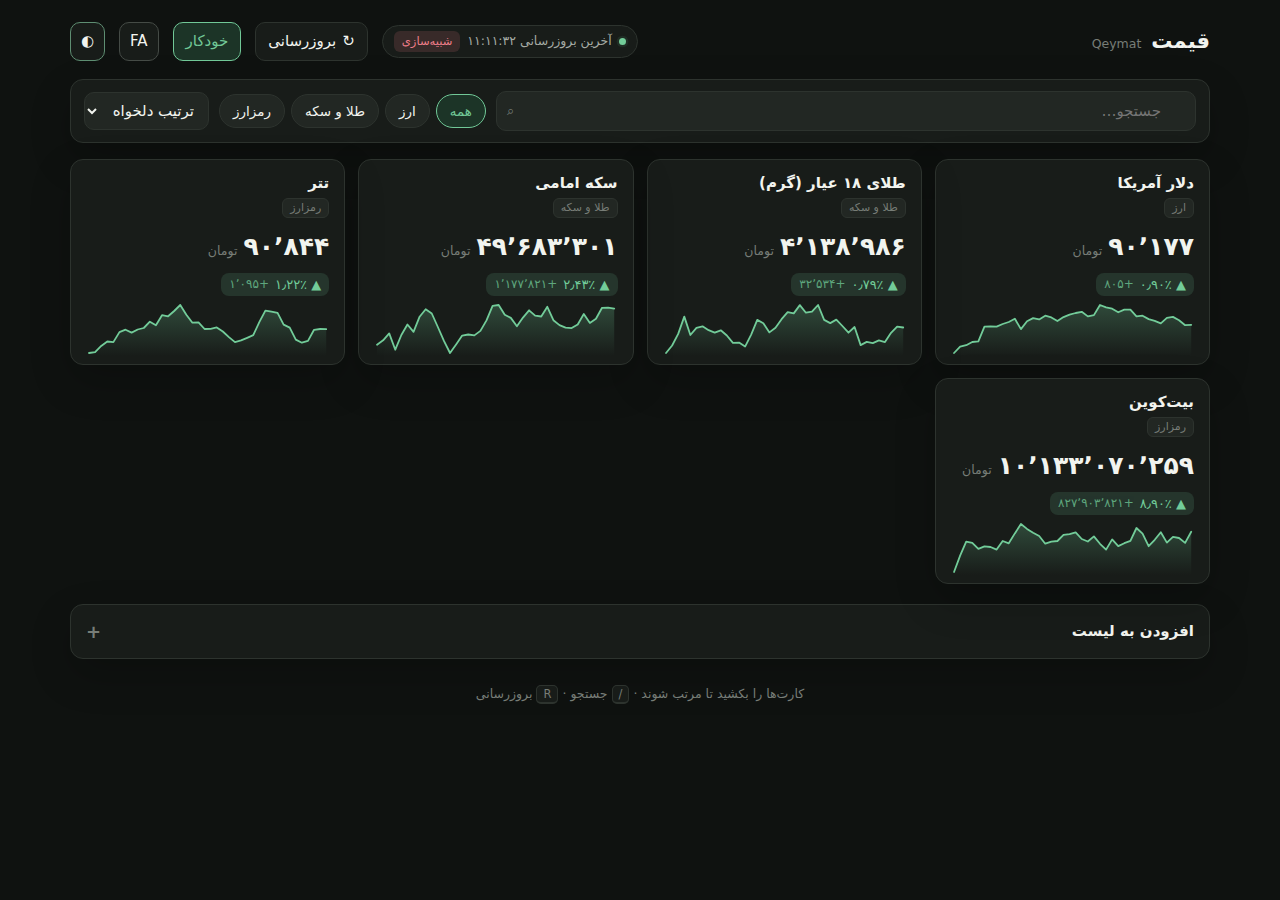
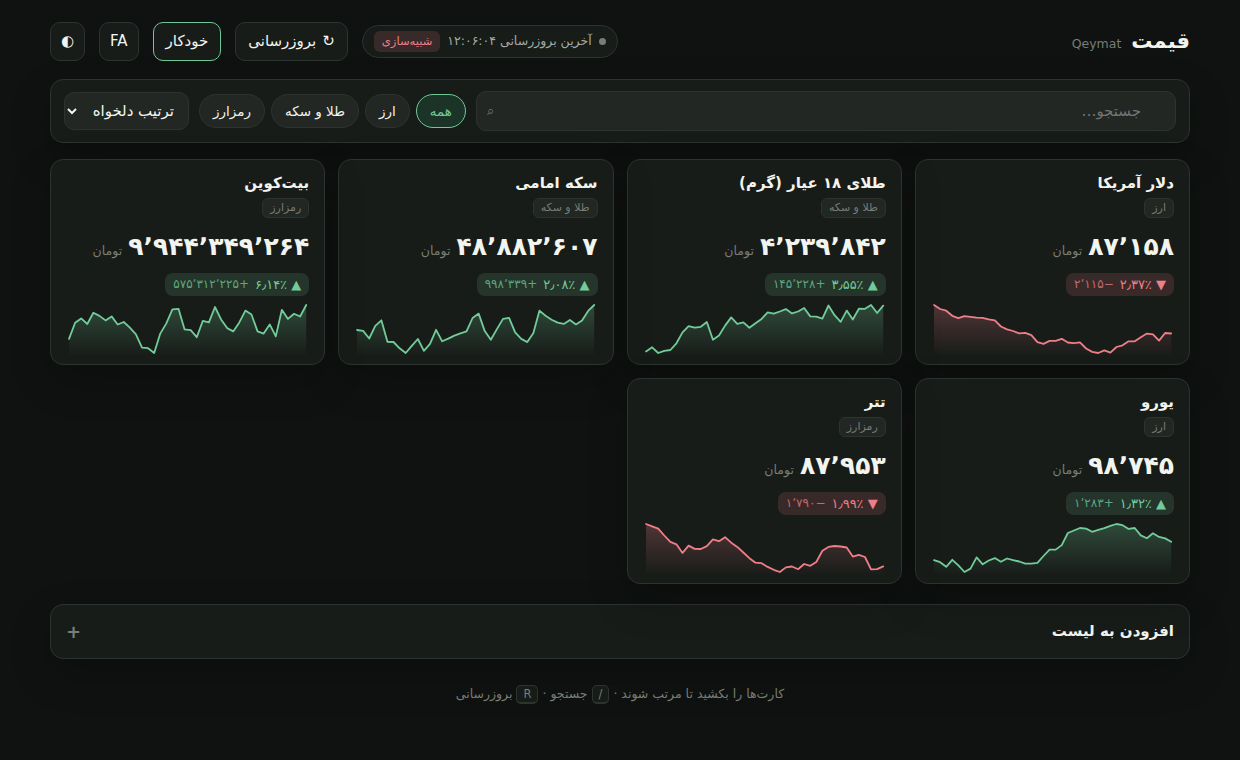
Fix ten review findings: honest live-mode data, in-place ticks, filtered reorder
A full review pass over the board surfaced three user-facing correctness
bugs, two defects that made the theme verifier unable to fail, and five
smaller gaps. All are fixed here.

Live mode no longer fabricates data. Seeding a random-walk history was
only ever the simulation's job, but it also ran at boot and on every
"add to watchlist" regardless of source — so with a real API key, adding
Bitcoin displayed an invented price under a "live" badge, indefinitely if
auto-refresh was off, and re-adding an asset overwrote its retained real
history. Now the simulation seeds as before; the live feed shows a
placeholder card and fetches immediately, a re-added asset keeps the data
it had, and before the first live response the badge reads "cached" —
which is literally what localStorage contents are — instead of claiming
anything untested. The API's estimated/derived flag, parsed and stored
but never shown, now renders as a marker on the card.

Ticks patch the DOM instead of rebuilding it. renderGrid() on every
5-second tick replaced el.grid.innerHTML, which cancelled any in-progress
drag and threw away keyboard focus. updateGrid() now updates prices,
deltas, and sparkline paths on the existing nodes, falling back to a full
render only when the visible set or order actually changed — and never
mid-drag. Verified by node identity across a tick and by focus surviving
one. The same tick also rewrote the search box's value, which can abort
[…]

diff --git a/qeymat-board/index.html b/qeymat-board/index.html
@@ -176,6 +176,7 @@
     .card .ctl button{min-width:40px;min-height:40px;display:inline-flex;align-items:center;justify-content:center}
     .card .mv{min-width:40px}
     .btn,.chip{min-height:40px}
+    select.sort,.add-btn{min-height:40px}
     .desktop-only{display:none}
   }
   @media (hover: hover){ .touch-only{display:none} }
@@ -190,6 +191,7 @@
   .delta.down{color:var(--down);background:var(--down-soft)}
   .delta.flat{color:var(--flat);background:var(--panel-2)}
   .delta .abs{opacity:.75;font-size:12px}
+  .delta .est{opacity:.8;font-size:11px;border-inline-start:1px solid currentColor;padding-inline-start:6px}
   .spark{display:block;width:100%;height:54px;margin-top:6px;overflow:visible}
   .flash{animation:flash .7s ease-out}
   @keyframes flash{from{background:var(--accent-soft)}to{background:transparent}}
@@ -319,6 +321,7 @@ const T = {
     units:{ toman:'تومان', usd:'دلار' }, pct:'٪',
     updated:'آخرین بروزرسانی', never:'هنوز بروزرسانی نشده', remove:'حذف',
     feed:{ live:'زنده', partial:'ناقص', cached:'ذخیرهشده', simulated:'شبیهسازی', error:'خطا' },
+    estimated:'تخمینی',
   },
   en:{
     brand:'Qeymat', sub:'قیمت', refresh:'Refresh', auto:'Auto',
@@ -332,6 +335,7 @@ const T = {
     units:{ toman:'Toman', usd:'USD' }, pct:'%',
     updated:'Updated', never:'not updated yet', remove:'Remove',
     feed:{ live:'live', partial:'partial', cached:'cached', simulated:'simulated', error:'error' },
+    estimated:'est.',
   }
 };
 const t = () => T[state.prefs.lang];
@@ -442,7 +446,9 @@ const liveSource = {
 
 // Which source is live is a data question, not a code edit: a key present means
 // the real API, absent means the simulation.
-let feedStatus = { mode: 'simulated', at: null };
+// Before the first live response, what is on screen is whatever localStorage
+// held — which is exactly what "cached" means. Never claim live untested.
+let feedStatus = { mode: API.key ? 'cached' : 'simulated', at: null };
 let activeSource = API.key ? liveSource : simulatedSource;
 
 async function fetchRates(ids){
@@ -503,8 +509,15 @@ function seedHistory(id){
 
 function ensureSeeded(){
   for (const id of state.watchlist){
-    if (!state.history[id] || !state.prices[id]) seedHistory(id);
-    if (state.prices[id].open == null) state.prices[id].open = state.history[id][0];
+    if (!state.history[id] || !state.prices[id]){
+      // Fabricated numbers are only ever acceptable from the simulation. In
+      // live mode a card with no data yet shows a placeholder until the
+      // first quote lands, rather than an invented price.
+      if (activeSource === simulatedSource) seedHistory(id);
+      else state.history[id] = state.history[id] || [];
+    }
+    const p = state.prices[id];
+    if (p && p.open == null) p.open = (state.history[id] || [])[0];
   }
 }
 
@@ -599,8 +612,9 @@ function visibleIds(){
 function cardHTML(id){
   const a = byId[id];
   const p = state.prices[id];
+  const has = !!p;
   const d = delta(id);
-  const dir = d.pct > 0.001 ? 'up' : d.pct < -0.001 ? 'down' : 'flat';
+  const dir = !has ? 'flat' : d.pct > 0.001 ? 'up' : d.pct < -0.001 ? 'down' : 'flat';
   const arrow = dir === 'up' ? '▲' : dir === 'down' ? '▼' : '■';
   const stroke = dir === 'up' ? 'var(--up)' : dir === 'down' ? 'var(--down)' : 'var(--flat)';
   const { line, area } = sparkPaths(state.history[id]);
@@ -621,12 +635,13 @@ function cardHTML(id){
       </div>
     </div>
     <div class="price">
-      <span class="num" data-num="${id}">${fmtPrice(p.price, a.unit)}</span>
+      <span class="num" data-num="${id}">${has ? fmtPrice(p.price, a.unit) : '—'}</span>
       <span class="unit">${t().units[a.unit]}</span>
     </div>
     <div class="delta ${dir}">
-      <span>${arrow} ${fmtPct(d.pct)}${t().pct}</span>
-      <span class="abs">${d.abs >= 0 ? '+' : '−'}${fmtPrice(Math.abs(d.abs), a.unit)}</span>
+      <span>${has ? `${arrow} ${fmtPct(d.pct)}${t().pct}` : '…'}</span>
+      <span class="abs">${has ? `${d.abs >= 0 ? '+' : '−'}${fmtPrice(Math.abs(d.abs), a.unit)}` : ''}</span>
+      <span class="est" ${has && p.estimated ? '' : 'hidden'}>${t().estimated}</span>
     </div>
     <svg class="spark" viewBox="0 0 ${SPARK_W} ${SPARK_H}" preserveAspectRatio="none" aria-hidden="true">
       <defs>
@@ -668,7 +683,7 @@ function renderChrome(){
   el.lang.textContent = p.lang === 'fa' ? 'FA' : 'EN';
   el.theme.textContent = p.theme === 'light' ? '☀' : p.theme === 'dark' ? '☾' : '◐';
   el.q.placeholder = L.search;
-  el.q.value = p.query;
+  if (document.activeElement !== el.q && el.q.value !== p.query) el.q.value = p.query;
   el.auto.classList.toggle('on', p.auto);
   el.dot.classList.toggle('live', p.auto);
   document.querySelectorAll('[data-i]').forEach(n => { n.textContent = L[n.dataset.i]; });
@@ -689,9 +704,45 @@ function renderChrome(){
   // never be mistaken for the real market.
   el.feed.textContent = L.feed[feedStatus.mode] || feedStatus.mode;
   el.feed.className = 'feed ' + feedStatus.mode;
+  el.feed.title = feedStatus.at ? `${L.updated} ${fmtTime(feedStatus.at)}` : '';
 }
 
 function renderAll(){ renderChrome(); renderGrid(); renderAdder(); }
+
+// A tick must not rebuild the DOM: innerHTML replacement cancels an
+// in-progress drag and throws away keyboard focus every 5 seconds. Patch the
+// existing cards instead, and fall back to a full render only when the set or
+// order of visible cards actually changed — never mid-drag.
+function updateGrid(){
+  const ids = visibleIds();
+  const cards = [...el.grid.querySelectorAll('.card')];
+  if (cards.length !== ids.length || cards.some((c, i) => c.dataset.id !== ids[i])){
+    if (dragId) return;
+    renderGrid();
+    return;
+  }
+  for (const c of cards){
+    const id = c.dataset.id;
+    const a = byId[id], p = state.prices[id];
+    if (!p) continue;
+    const d = delta(id);
+    const dir = d.pct > 0.001 ? 'up' : d.pct < -0.001 ? 'down' : 'flat';
+    const arrow = dir === 'up' ? '▲' : dir === 'down' ? '▼' : '■';
+    const stroke = dir === 'up' ? 'var(--up)' : dir === 'down' ? 'var(--down)' : 'var(--flat)';
+    c.querySelector('.num').textContent = fmtPrice(p.price, a.unit);
+    const dl = c.querySelector('.delta');
+    dl.className = 'delta ' + dir;
+    dl.children[0].textContent = `${arrow} ${fmtPct(d.pct)}${t().pct}`;
+    dl.querySelector('.abs').textContent = `${d.abs >= 0 ? '+' : '−'}${fmtPrice(Math.abs(d.abs), a.unit)}`;
+    dl.querySelector('.est').hidden = !p.estimated;
+    const { line, area } = sparkPaths(state.history[id]);
+    const paths = c.querySelectorAll('.spark path');
+    paths[0].setAttribute('d', area);
+    paths[1].setAttribute('d', line);
+    paths[1].setAttribute('stroke', stroke);
+    c.querySelectorAll('.spark stop').forEach(st => st.setAttribute('stop-color', stroke));
+  }
+}
 
 /* ============================================================
    TICK
@@ -719,7 +770,7 @@ async function tick(flash = false){
     state.updatedAt = Date.now();
     save();
     renderChrome();
-    renderGrid();
+    updateGrid();
     if (flash) el.grid.querySelectorAll('.card').forEach(c => {
       c.classList.remove('flash');
       void c.offsetWidth;          // restart the animation
@@ -787,13 +838,19 @@ el.grid.addEventListener('click', e => {
     save(); renderGrid(); renderAdder();
     return;
   }
-  // ↑ / ↓ reorder — the touch-reachable equivalent of dragging a card
+  // ↑ / ↓ reorder — the touch-reachable equivalent of dragging a card.
+  // Movement is relative to the VISIBLE neighbours: with a filter or search
+  // active, stepping by raw watchlist index would silently shuffle hidden
+  // cards while the tap looked dead.
   const mv = e.target.closest('[data-move]');
   if (mv){
     const [id, step] = mv.dataset.move.split('|');
-    const from = state.watchlist.indexOf(id);
-    const to   = from + Number(step);
-    if (from > -1 && to >= 0 && to < state.watchlist.length){
+    const vis = visibleIds();
+    const vi = vis.indexOf(id);
+    const ti = vi + Number(step);
+    if (vi > -1 && ti >= 0 && ti < vis.length){
+      const from = state.watchlist.indexOf(id);
+      const to   = state.watchlist.indexOf(vis[ti]);
       state.watchlist.splice(to, 0, state.watchlist.splice(from, 1)[0]);
       save(); renderGrid();
     }
@@ -805,8 +862,15 @@ el.addBody.addEventListener('click', e => {
   if (!b) return;
   const id = b.dataset.add;
   state.watchlist.push(id);
-  seedHistory(id);
+  // A re-added asset keeps the real data it already has. A brand-new one is
+  // seeded only by the simulation; the live feed gets a placeholder card and
+  // an immediate fetch instead of an invented price under a "live" badge.
+  if (!state.prices[id] || !state.history[id]){
+    if (activeSource === simulatedSource) seedHistory(id);
+    else state.history[id] = state.history[id] || [];
+  }
   save(); renderGrid(); renderAdder();
+  if (activeSource !== simulatedSource) tick(false);
 });
 
 // --- drag to reorder (custom sort only) ---
@@ -851,8 +915,11 @@ el.grid.addEventListener('dragend', () => {
 
 document.addEventListener('keydown', e => {
   const typing = ['INPUT','TEXTAREA','SELECT'].includes(e.target.tagName);
-  if (e.key === '/' && !typing){ e.preventDefault(); el.q.focus(); el.q.select(); }
-  if ((e.key === 'r' || e.key === 'R') && !typing && !e.metaKey && !e.ctrlKey){ e.preventDefault(); tick(true); }
+  // Match on e.code as well as e.key: on the fa-IR layout the R key produces
+  // 'ق' and the slash key another character entirely, so key-only matching
+  // makes both advertised shortcuts dead for the primary audience.
+  if ((e.key === '/' || e.code === 'Slash') && !typing){ e.preventDefault(); el.q.focus(); el.q.select(); }
+  if ((e.code === 'KeyR' || e.key === 'r' || e.key === 'R') && !typing && !e.metaKey && !e.ctrlKey){ e.preventDefault(); tick(true); }
   if (e.key === 'Escape' && e.target === el.q){ state.prefs.query = ''; save(); renderChrome(); renderGrid(); el.q.blur(); }
 });
 

diff --git a/qeymat-board/README.md b/qeymat-board/README.md
@@ -156,6 +156,7 @@ It shows up under "Add to watchlist" immediately.
 ```
 qeymat-board/
   index.html              the whole app — markup, styles, logic
+  tools/verify-theme.mjs  asserts the board's tokens equal the admin panel's
   tools/extract-theme.js  reads design tokens off a live page
   preview.png             screenshot used above
   README.md
